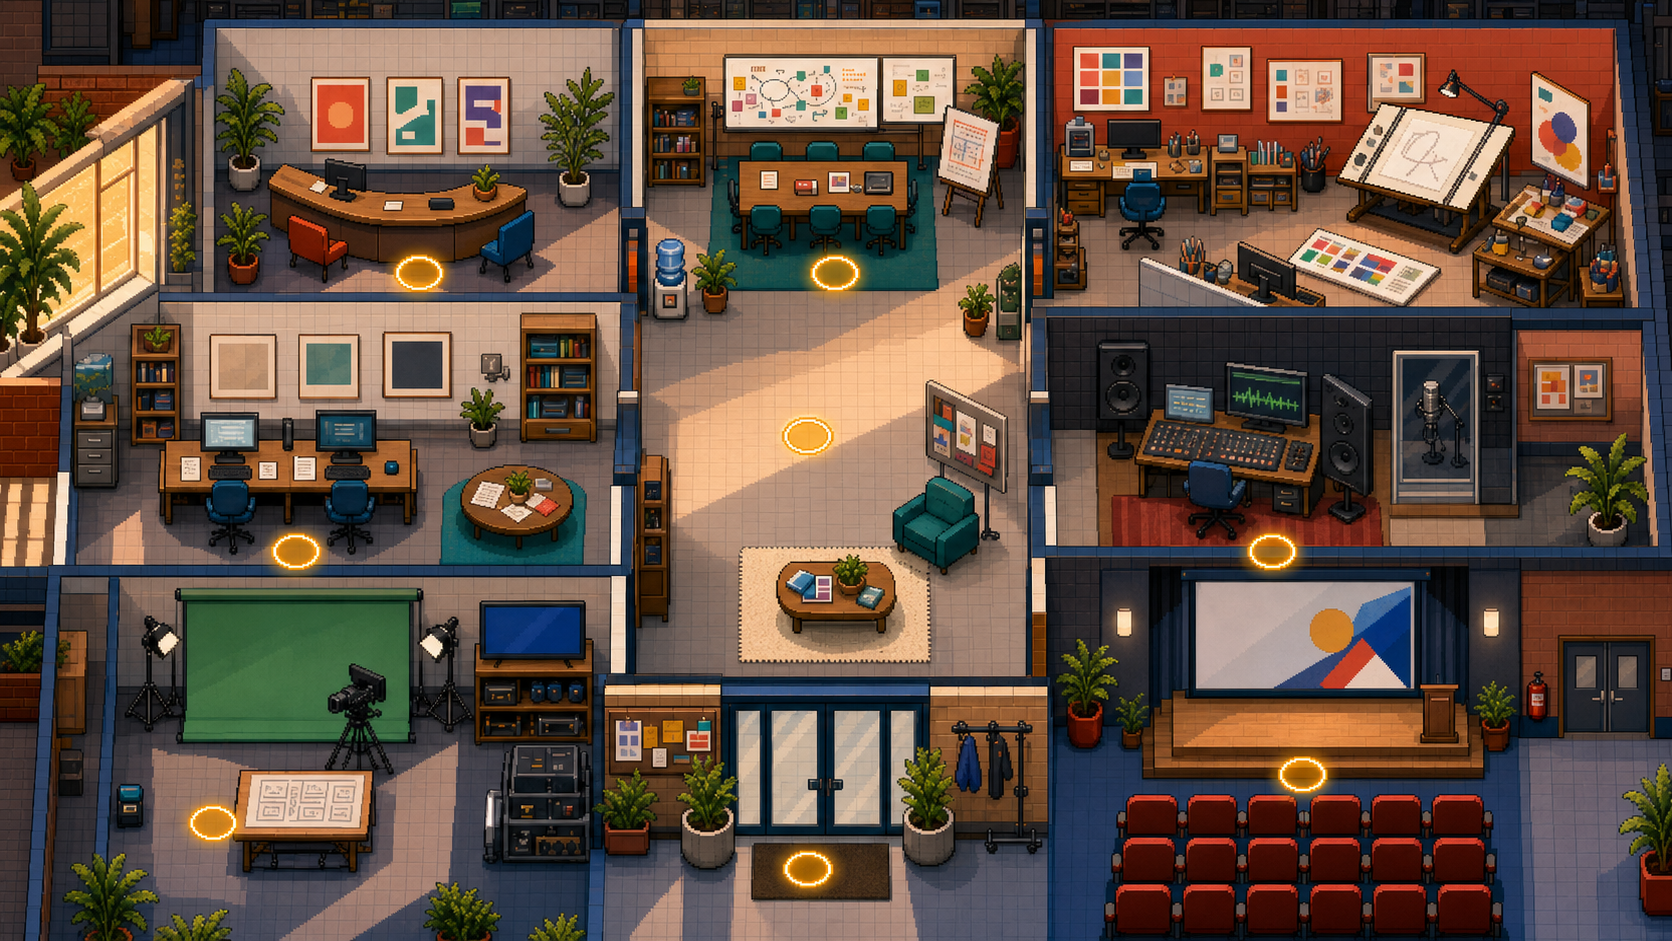
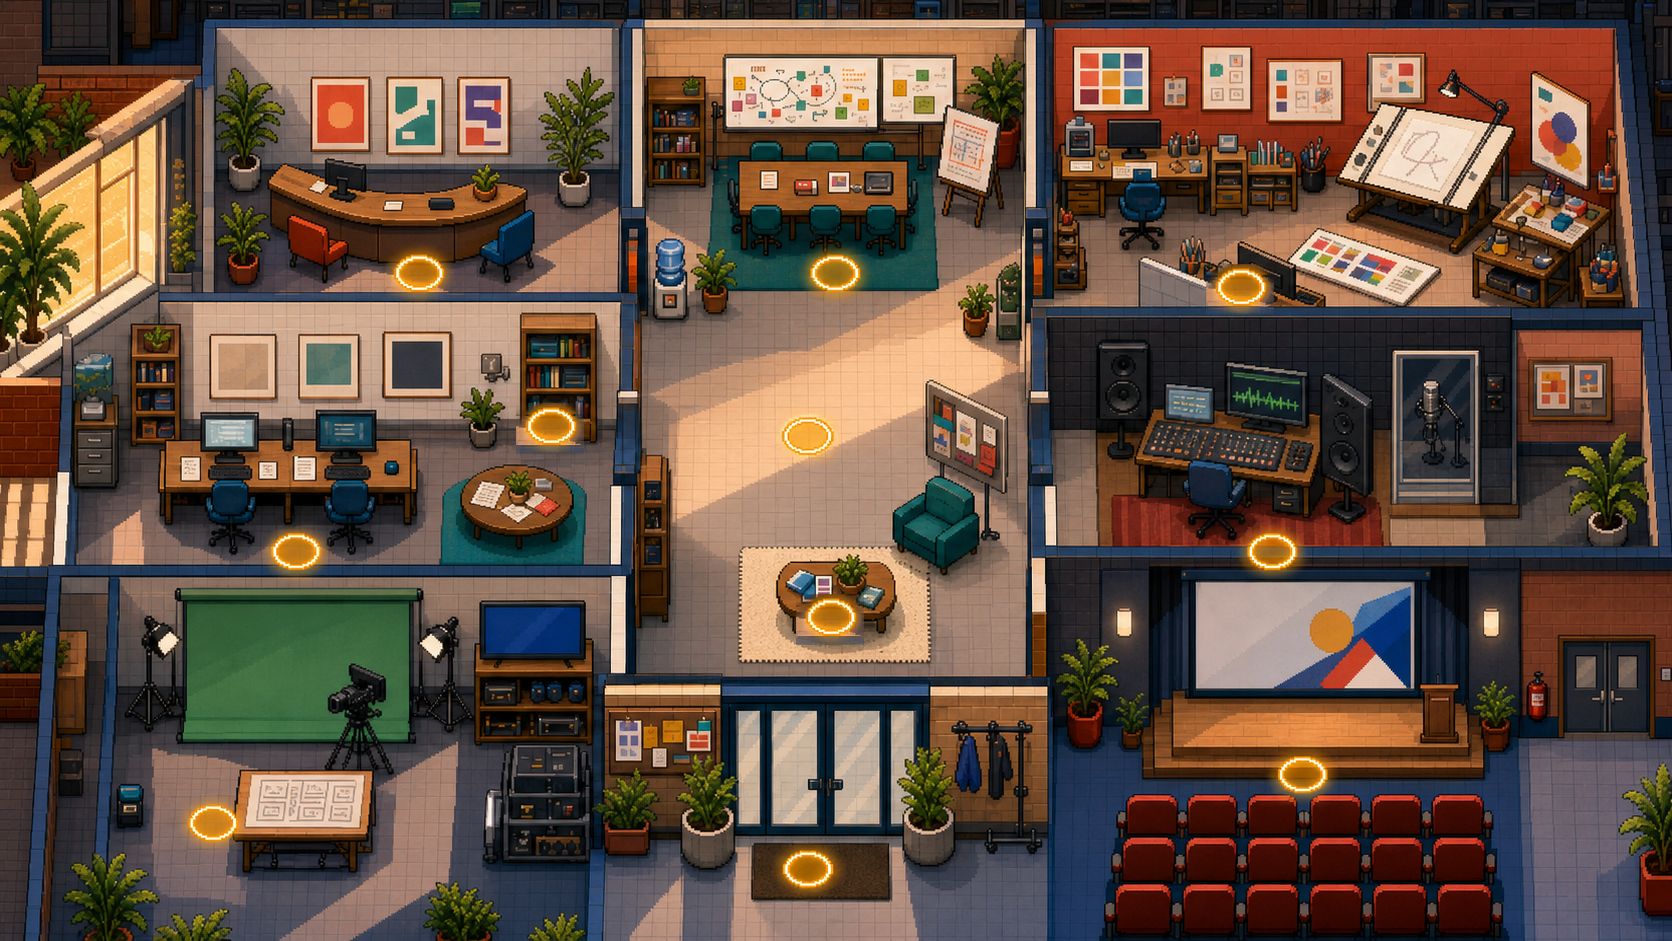
fix(godot): put every station on a floor marker, render the pair at its true size
Hosted QA found the office hotspots not matching the art and the pair figures
looking broken. Both turned out to be measurable rather than matters of taste.

Detecting the authored amber floor markers by colour and converting through the
AgencyFloor sprite transform yields eight, but only six mark stations. The other
two are CENTRAL_TRAVEL_POINT and a marker on the entrance mat that no station or
travel point uses. Six stations move onto their marker, 14px to 40px each.
client-briefing, media-desk and art-studio had no marker at all, so they gain
one, alpha-composited from a copy of the reception marker onto clear floor in the
room each station belongs to; stamping rather than drawing keeps them identical
in colour and shape to the authored markers. Every arrival point was checked to
land on walkable floor inside the same room and inside movement_bounds -
media-desk's old (+64, 0) arrival pointed into the corridor wall.

The figures were not badly drawn. The atlas shipped at 418x470 per cell and
rendered at scale 0.13, so the GPU reduced each figure to 54x61 by nearest
sampling, keeping one pixel in eight. That is what produced the mismatched eyes
and broken hands. The atlas is now authored at 108x122, twice the rendered size
so larger browser windows still have headroom, and the sprites use scale 0.5 with
linear filtering. The on-screen footprint is unchanged at 54x61 and the asset
drops from 1.3 MB to 62 KB.
[…]

Changed region(s): [[0.4665, 0.6164, 0.5287, 0.7088], [0.7153, 0.2774, 0.7775, 0.339], [0.311, 0.4315, 0.3732, 0.4931]]

diff --git a/docs/operations/release-verification-2026-08-07-tuckability-single-action.md b/docs/operations/release-verification-2026-08-07-tuckability-single-action.md
@@ -194,28 +194,77 @@ required before any further QA.
 
 The fourth defect is open and needs an authoring decision, recorded below.
 
-### Open: the floor art carries 8 markers for 9 stations
+### Resolved: the floor art carries 8 markers, only 6 of them for stations
 
-The agency floor art bakes a glowing amber ellipse at each station, and those markers
-are the authored ground truth for where a hotspot belongs. Detecting them by colour and
-converting through the `AgencyFloor` sprite transform (centred at 640,440, scale
-0.76555) yields eight markers. Seven stations sit 14px to 40px from their marker, which
-is mechanical to correct. Three do not resolve:
+The agency floor art bakes a glowing amber ellipse where a hotspot belongs, and those
+markers are the authored ground truth. Detecting them by colour and converting through
+the `AgencyFloor` sprite transform (centred at 640,440, scale 0.76555) yields eight. The
+earlier reading of "8 markers for 9 stations" was wrong: only six mark stations. Of the
+remaining two, one matches `CENTRAL_TRAVEL_POINT` and one sits on the entrance mat,
+bound to nothing — the pair spawns at reception (381.4, 290.7), not on the mat.
 
-| Station | Script position | Distance to nearest marker |
-|---|---|---|
-| client-briefing | (430, 370) | 136px |
-| media-desk | (640, 532) | 121px |
-| art-studio | (1040, 310) | 202px |
+Six stations were moved onto their marker, a correction of 14px to 40px each. The three
+with no marker — client-briefing, media-desk and art-studio — were given one, by
+alpha-compositing a copy of the reception marker onto clear floor in the room each
+station belongs to. Stamping rather than drawing keeps the new markers identical in
+colour and shape to the authored ones.
 
-The art studio room has no floor marker at all. Snapping these three to their nearest
-marker would place client-briefing on reception's marker, so no automatic correction was
-applied. Either the art gains three markers or those three stations move onto existing
-ones; both are authoring decisions.
+| Station | Was | Now | Marker |
+|---|---|---|---|
+| reception | (318, 318) | (319.9, 290.9) | authored |
+| client-briefing | (430, 370) | (421.0, 408.0) | stamped, floor by the briefing table |
+| strategy-room | (640, 320) | (639.0, 289.4) | authored |
+| art-studio | (1040, 310) | (949.3, 301.9) | stamped, floor left of the swatch layout |
+| copy-room | — | (226.5, 502.1) | authored |
+| production-studio | — | (164.4, 709.1) | authored |
+| media-desk | (640, 532) | (635.4, 554.4) | stamped, tile below the lounge rug |
+| sound-booth | — | (973.3, 500.9) | authored |
+| pitch-theatre | — | (996.6, 671.2) | authored |
 
-Separately, the pair figures were judged not good enough. Replacement candidates should
-come from `C:\Users\Peter Ellis\Documents\Asset Packs` (see its `ASSET_CATALOG.md`); the
-current figures are one atlas at `godot/assets/agency/agency-pair.png`.
+Every arrival point (station position plus its `STATION_ARRIVAL_OFFSETS` entry) was
+checked to land on walkable floor inside the same room and inside `movement_bounds`
+(28,104 to 1252,772). The original media-desk placement pushed its `(+64, 0)` arrival
+into the corridor's right wall; moving the station clears it. client-briefing's physics
+contract still holds: the pair arrives at (421, 498), 46px below `ClientBriefingFixture`,
+so the 90px upward motion test still collides.
+
+### Resolved: the pair figures were destroyed by their downscale, not badly drawn
+
+The figures were judged not good enough, with the Asset Packs proposed as a source of
+replacements. Two findings changed that plan.
+
+`C:\Users\Peter Ellis\Documents\Asset Packs` has no usable replacement. Its character
+collection is side-view platformer art (Idle/Run/Jump/Attack) and top-down-shooter combat
+art; a search of `catalog/files.csv` for four-directional naming returns nothing outside
+two unrelated effect and tileset packs. The agency pair needs front, back, left and right
+at a high three-quarter camera angle. Swapping would cost the back and side views.
+
+The figures also were not the problem. The atlas shipped at 418x470 per cell and rendered
+at `scale = 0.13`, so the GPU resolved each figure into 54x61 pixels by nearest-neighbour
+sampling — an 87% reduction that keeps one pixel in eight. That is what produced the
+mismatched eyes and broken hands, not the artwork. The atlas is now authored at 108x122
+per cell (twice the rendered size, leaving headroom for larger browser windows) by
+premultiplied-alpha Lanczos resampling with a light unsharp pass, with `scale = 0.5` and
+`texture_filter = 2` (linear). The on-screen footprint is unchanged at 54x61, and the
+asset drops from 1.3 MB to 62 KB.
+
+`test_agency_world.gd` asserted the raw `0.13` scale, which coupled the contract to the
+source resolution. It now also asserts the rendered footprint (frame size times scale
+equals 54x61), verified load-bearing by injecting a 1px error.
+
+### Open: a failed `assert` does not fail the Godot suite
+
+Both regressions above were caught by reading stdout, not by the gate. `run_tests.gd`
+calls `quit(1)` only when a suite returns something other than `true`, but a failed
+GDScript `assert()` aborts the assertion function and returns control to `run()`, which
+carries on and returns `true`. Both times the runner printed `SCRIPT ERROR: Assertion
+failed` and then `Godot game, Creator bridge, and Market bridge tests passed`, and exited
+0. CI would have gone green on a broken suite. The cheapest fix is to fail the gate when
+the runner's output contains `SCRIPT ERROR`; it has not been applied.
+
+Related, not changed: `AgencyFloor` also uses `texture_filter = 1` at scale 0.766, so the
+floor art loses roughly a quarter of its pixel rows to the same nearest-neighbour
+sampling.
 
 ## Outstanding before production
 
